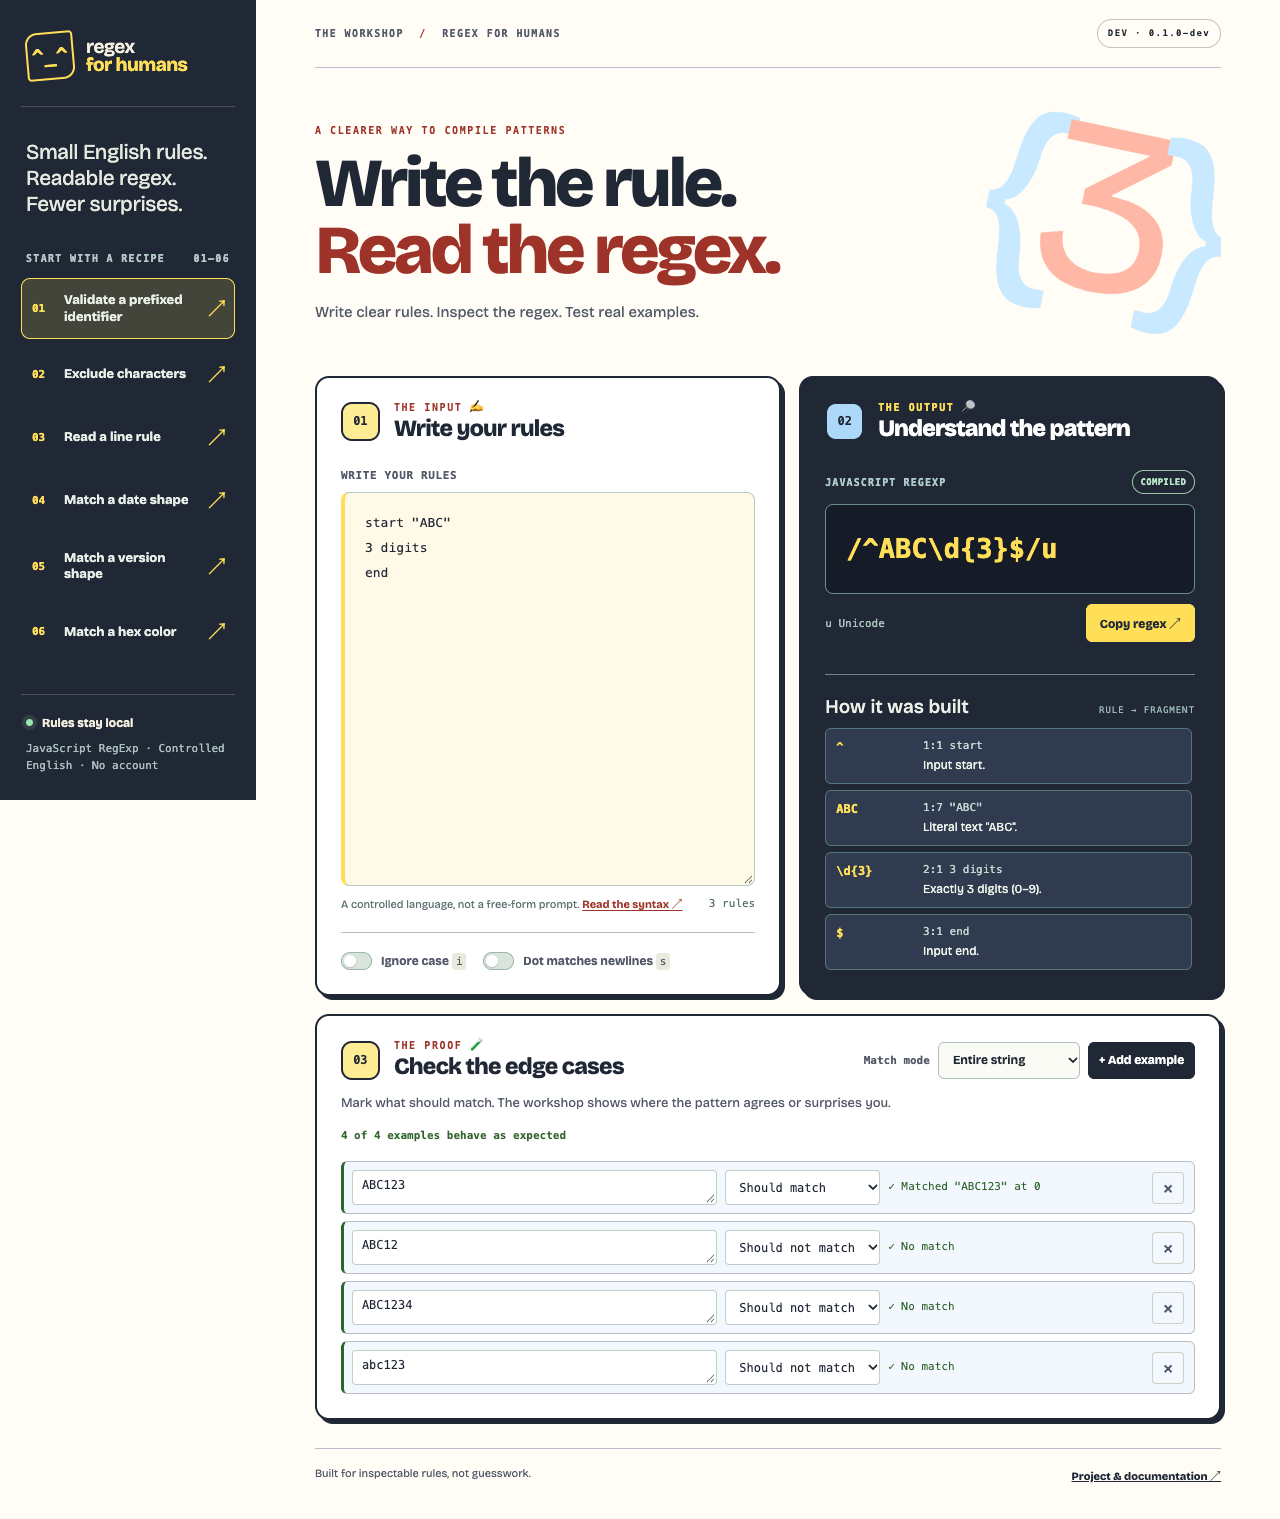
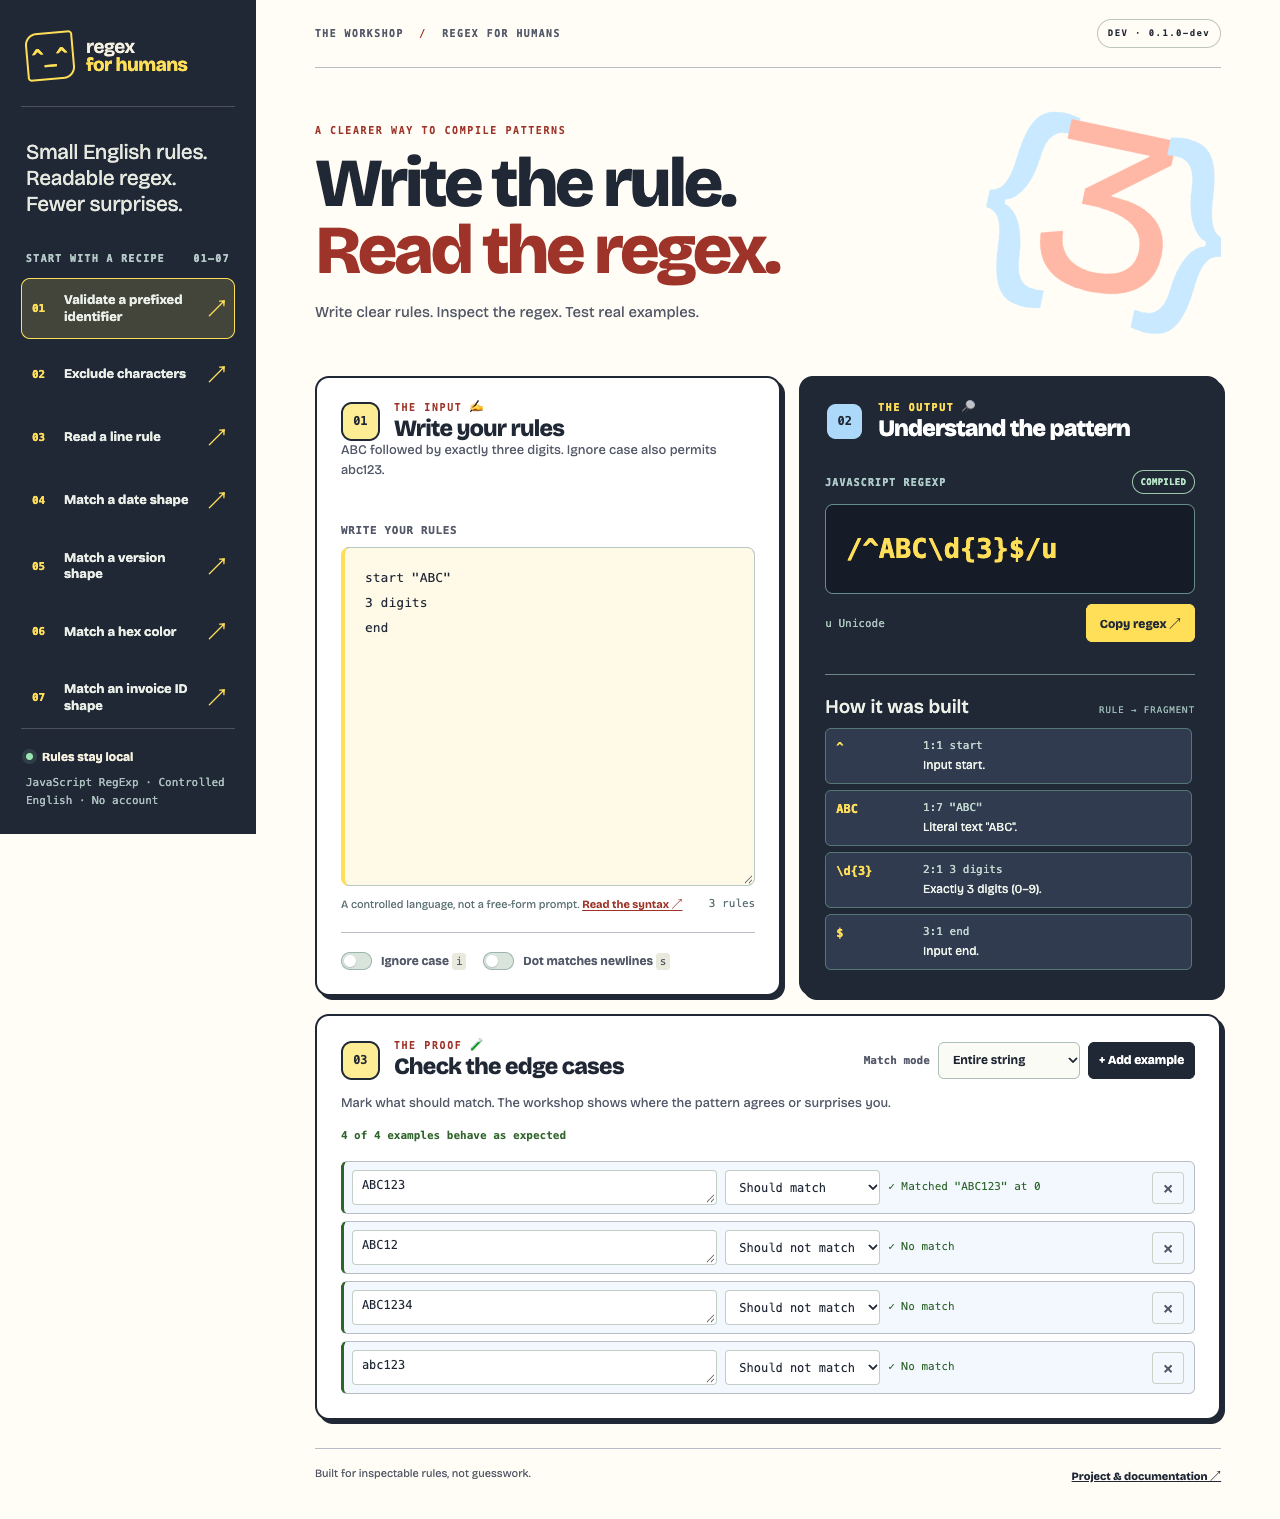
feat(recipes): teach bounded invoice ID shapes

Changed region(s): [[0.0, 0.4332, 0.2188, 0.5569], [0.25, 0.2785, 0.3438, 0.4022], [0.4062, 0.2785, 0.4375, 0.3094]]

diff --git a/site/index.html b/site/index.html
@@ -10,7 +10,7 @@
   <link rel="icon" type="image/svg+xml" href="./favicon.svg">
   <link rel="stylesheet" href="./styles.css?v=playful-1">
   <link rel="preload" href="./assets/fonts/bricolage-grotesque-latin.woff2" as="font" type="font/woff2" crossorigin>
-  <script type="module" src="./app.js?v=playful-4"></script>
+  <script type="module" src="./app.js?v=playful-5"></script>
 </head>
 <body>
   <a class="skip-link" href="#main">Skip to content</a>
@@ -47,9 +47,10 @@ end</code></pre></div>
       <div class="steps"><article class="step peach"><span class="step-icon" aria-hidden="true">✍</span><p class="step-number">01 / WRITE</p><h3>Say what you need.</h3><p>One instruction per line. Start with <code>3 digits</code>, a literal like <code>"ABC"</code>, or a recipe.</p></article><article class="step blue"><span class="step-icon" aria-hidden="true">🔎</span><p class="step-number">02 / UNDERSTAND</p><h3>See every little bit.</h3><p>Follow each rule to its regex fragment and explanation. No mystery pattern to blindly trust.</p></article><article class="step green"><span class="step-icon" aria-hidden="true">🧪</span><p class="step-number">03 / TEST</p><h3>Give it a reality check.</h3><p>Try strings that should match and strings that shouldn't. Change a rule. See what happens.</p></article></div>
     </section>
     <section class="recipes-section section" id="recipes" aria-labelledby="recipes-title">
-      <div class="section-heading split"><div><p class="eyebrow">PICK A STARTING POINT</p><h2 id="recipes-title">Small recipes.<br>Useful little superpowers.</h2></div><p>Six editable recipes in the workshop.<br>Bring your own examples, too.</p></div>
+      <div class="section-heading split"><div><p class="eyebrow">PICK A STARTING POINT</p><h2 id="recipes-title">Small recipes.<br>Useful little superpowers.</h2></div><p>Seven editable recipes in the workshop.<br>Bring your own examples, too.</p></div>
       <div class="recipe-grid">
         <a class="recipe-card" href="./workshop/?example=prefixed-identifier"><span aria-hidden="true">🏷</span><h3>Give IDs a shape</h3><code>ABC123</code><p>A prefix + exactly three digits.</p><span class="recipe-arrow" aria-hidden="true">↗</span></a>
+        <a class="recipe-card" href="./workshop/?example=invoice-number"><span aria-hidden="true">🧾</span><h3>Shape an invoice ID</h3><code>INV-1234</code><p>INV- + 2–6 digits. Verify records separately.</p><span class="recipe-arrow" aria-hidden="true">↗</span></a>
         <a class="recipe-card" href="./workshop/?example=hex-color"><span aria-hidden="true">🎨</span><h3>Find your color</h3><code>#12aBcF</code><p>Six hexadecimal digits after #.</p><span class="recipe-arrow" aria-hidden="true">↗</span></a>
         <a class="recipe-card" href="./workshop/?example=date-shape"><span aria-hidden="true">📅</span><h3>Check a date shape</h3><code>2026-09-30</code><p>YYYY-MM-DD. Calendar checks are separate.</p><span class="recipe-arrow" aria-hidden="true">↗</span></a>
         <a class="recipe-card" href="./workshop/?example=version-shape"><span aria-hidden="true">📦</span><h3>Spot a version shape</h3><code>1.2.3</code><p>Three numeric parts. Not full SemVer.</p><span class="recipe-arrow" aria-hidden="true">↗</span></a>
@@ -59,11 +60,11 @@ end</code></pre></div>
     </section>
     <section class="workshop-section section" aria-labelledby="workshop-title">
       <div class="workshop-copy"><p class="eyebrow">YOUR NEW REGEX SANDBOX</p><h2 id="workshop-title">Poke it.<br>Break it.<br><span class="workshop-underline">Understand it.</span></h2><p>Live output, explanations, helpful error positions, and examples you can edit. All in your browser.</p><a class="button primary" href="./workshop/">Take it for a spin <span aria-hidden="true">↗</span></a><p class="local-note"><span aria-hidden="true">🔒</span> Rules and examples stay in your browser.</p></div>
-      <a class="workshop-preview" href="./workshop/" aria-label="Open the interactive workshop"><div class="preview-bar" aria-hidden="true"><span>● ● ●</span><span>THE WORKSHOP / A REAL SCREENSHOT</span></div><img src="./assets/workshop-preview.png?v=2ac4704f7841" alt="Regex For Humans workshop with editable rules, a generated regex, explanations, and passing examples." loading="lazy" width="1280" height="1519"></a>
+      <a class="workshop-preview" href="./workshop/" aria-label="Open the interactive workshop"><div class="preview-bar" aria-hidden="true"><span>● ● ●</span><span>THE WORKSHOP / A REAL SCREENSHOT</span></div><img src="./assets/workshop-preview.png?v=86a0caaaef46" alt="Regex For Humans workshop with editable rules, a generated regex, explanations, and passing examples." loading="lazy" width="1280" height="1519"></a>
     </section>
     <section class="language-section section" id="language" aria-labelledby="language-title">
       <div class="language-intro"><p class="eyebrow">THE POCKET CHEAT SHEET</p><h2 id="language-title">A few words.<br>A lot less squinting. <span aria-hidden="true">👀</span></h2><p>A small, fixed English vocabulary. Every supported instruction has an exact meaning.</p><a class="text-link" href="./workshop/web/language.html">Read the full syntax guide ↗</a><p class="scope-note">JavaScript RegExp only. Free-form English, raw regex, groups, alternation, and lookaround aren't part of this language.</p></div>
-      <div class="syntax-list"><div><code>start / end</code><span aria-hidden="true">→</span><code>^ / $</code></div><div><code>3 digits</code><span aria-hidden="true">→</span><code>\d{3}</code></div><div><code>6 hex digits</code><span aria-hidden="true">→</span><code>[0-9A-Fa-f]{6}</code></div><div><code>"hello"</code><span aria-hidden="true">→</span><code>hello</code></div><div><code>one of: a, b</code><span aria-hidden="true">→</span><code>[ab]</code></div><div><code>text without: a, b</code><span aria-hidden="true">→</span><code>[^ab]*</code></div><div><code>any text</code><span aria-hidden="true">→</span><code>.*</code></div></div>
+      <div class="syntax-list"><div><code>start / end</code><span aria-hidden="true">→</span><code>^ / $</code></div><div><code>3 digits</code><span aria-hidden="true">→</span><code>\d{3}</code></div><div><code>between 2 and 6 digits</code><span aria-hidden="true">→</span><code>\d{2,6}</code></div><div><code>6 hex digits</code><span aria-hidden="true">→</span><code>[0-9A-Fa-f]{6}</code></div><div><code>"hello"</code><span aria-hidden="true">→</span><code>hello</code></div><div><code>one of: a, b</code><span aria-hidden="true">→</span><code>[ab]</code></div><div><code>text without: a, b</code><span aria-hidden="true">→</span><code>[^ab]*</code></div><div><code>any text</code><span aria-hidden="true">→</span><code>.*</code></div></div>
     </section>
     <section class="closing" aria-labelledby="closing-title"><span class="closing-face" aria-hidden="true">^_^</span><div><h2 id="closing-title">Make your next regex<br>a little more human.</h2><a class="button primary" href="./workshop/">Let's make a match <span aria-hidden="true">✨</span></a></div></section>
   </main>

diff --git a/test/site/landing.spec.js b/test/site/landing.spec.js
@@ -100,6 +100,24 @@ test("the initial hex demo still works when extra recipes cannot load", async ({
   await expect(page.locator("#demo-open")).toHaveAttribute("href", "./workshop/?example=hex-color");
 });
 
+test("recipe cards cover every shared recipe and open the bounded invoice shape", async ({
+  page,
+}) => {
+  await page.goto("/");
+  const ids = await page
+    .locator(".recipe-card")
+    .evaluateAll((cards) => cards.map((card) => new URL(card.href).searchParams.get("example")));
+  expect(ids.sort()).toEqual(recipes.map((recipe) => recipe.id).sort());
+  await expect(page.locator(".syntax-list")).toContainText("between 2 and 6 digits");
+  const recipe = recipes.find((item) => item.id === "invoice-number");
+  await page.locator('.recipe-card[href*="invoice-number"]').click();
+  await expect(page).toHaveURL(/\/workshop\/\?example=invoice-number$/u);
+  await expect(page.locator("#rules-input")).toHaveValue(recipe.rules);
+  await expect(page.locator("#regex-output")).toHaveText(`/${recipe.source}/${recipe.flags}`);
+  await expect(page.locator("#recipe-note")).toHaveText(recipe.note);
+  await expect(page.locator("#test-summary")).toHaveText("10 of 10 examples behave as expected");
+});
+
 test("copying a second snippet keeps its feedback after the first timer expires", async ({
   page,
 }) => {

diff --git a/test/browser/workshop.spec.js b/test/browser/workshop.spec.js
@@ -54,6 +54,11 @@ for (const scenario of scenarios) {
         "Exactly 6 hexadecimal digits (0–9, A–F, a–f).",
       );
     }
+    if (scenario.id === "invoice-number") {
+      await expect(page.locator("#trace-list")).toContainText(
+        "Between 2 and 6 digits (0–9), inclusive.",
+      );
+    }
     await expect(page.locator("#regex-output")).toHaveText(`/${scenario.source}/${scenario.flags}`);
     await expect(page.locator("#test-summary")).toHaveText(
       `${scenario.positive.length + scenario.negative.length} of ${scenario.positive.length + scenario.negative.length} examples behave as expected`,

diff --git a/README.md b/README.md
@@ -55,29 +55,30 @@ A small, **fixed vocabulary**, with an exact meaning for every instruction. The 
 
 Your rules and examples stay in the browser. No account, AI interpretation, or application backend.
 
-[![Real desktop workshop showing editable rules, generated regex, explanations, and passing example checks](https://raw.githubusercontent.com/OthmaneBlial/Regex-For-Humans/main/media/screenshots/workshop-desktop-dev.png?v=ea8ad4302ece)](https://othmaneblial.github.io/Regex-For-Humans/workshop/)
+[![Real desktop workshop showing editable rules, generated regex, explanations, and passing example checks](https://raw.githubusercontent.com/OthmaneBlial/Regex-For-Humans/main/media/screenshots/workshop-desktop-dev.png?v=0aa7a9f27078)](https://othmaneblial.github.io/Regex-For-Humans/workshop/)
 
 <details>
 <summary>📱 See the mobile workshop</summary>
 
-![Mobile view of the Regex For Humans workshop](https://raw.githubusercontent.com/OthmaneBlial/Regex-For-Humans/main/media/screenshots/workshop-mobile-dev.png?v=88d027526010)
+![Mobile view of the Regex For Humans workshop](https://raw.githubusercontent.com/OthmaneBlial/Regex-For-Humans/main/media/screenshots/workshop-mobile-dev.png?v=68866e560029)
 
 </details>
 
 [Real screenshot details and checksums](https://github.com/OthmaneBlial/Regex-For-Humans/blob/main/media/screenshots/README.md).
 
-## 🍱 Six recipes to start with
+## 🍱 Seven recipes to start with
 
 | Try this | Example | What it checks |
 | --- | --- | --- |
 | [🏷 Prefixed ID](https://othmaneblial.github.io/Regex-For-Humans/workshop/?example=prefixed-identifier) | `ABC123` | `ABC` + exactly three digits |
+| [🧾 Invoice ID shape](https://othmaneblial.github.io/Regex-For-Humans/workshop/?example=invoice-number) | `INV-1234` | `INV-` + two to six ASCII digits |
 | [🎨 Hex color](https://othmaneblial.github.io/Regex-For-Humans/workshop/?example=hex-color) | `#12aBcF` | Six hexadecimal digits after `#`, either letter case |
 | [📅 Date shape](https://othmaneblial.github.io/Regex-For-Humans/workshop/?example=date-shape) | `2026-09-30` | The `YYYY-MM-DD` shape |
 | [📦 Version shape](https://othmaneblial.github.io/Regex-For-Humans/workshop/?example=version-shape) | `1.2.3` | Three numeric components |
 | [🚧 Excluded characters](https://othmaneblial.github.io/Regex-For-Humans/workshop/?example=excluded-characters) | `xyz` | Text without a chosen set of characters |
 | [📝 Line rule](https://othmaneblial.github.io/Regex-For-Humans/workshop/?example=line-rule) | `item 123` | A line ending in at least three digits |
 
-**Shapes have limits:** date shape accepts impossible dates such as `2026-02-31`; validate calendar values separately. Version shape allows leading zeros and rejects prerelease suffixes; it isn't full SemVer. Hex color accepts `#RRGGBB`, not shorthand, alpha, or every CSS color form.
+**Shapes have limits:** invoice IDs allow leading zeros; verify invoice records separately. Date shape accepts impossible dates such as `2026-02-31`; validate calendar values separately. Version shape allows leading zeros and rejects prerelease suffixes; it isn't full SemVer. Hex color accepts `#RRGGBB`, not shorthand, alpha, or every CSS color form.
 
 ## 🧩 Your pocket cheat sheet
 

diff --git a/media/screenshots/README.md b/media/screenshots/README.md
@@ -1,15 +1,15 @@
 # Screenshot evidence
 
-These are full-page Chrome captures of the local static workshop from this source tree on 30 September 2026, after `npm run verify` passed. Build fingerprint: `e4bc180e0aec`; visible version: `DEV · 0.1.0-dev`. The build was served from `site/` at `http://127.0.0.1:4187/workshop/`. No UI elements or results were composited or edited. The Bricolage Grotesque font is hosted locally and distributed with its SIL Open Font License in `web/assets/OFL.txt` and `site/assets/fonts/OFL.txt`.
+These are full-page Chrome captures of the local static workshop from this source tree on 30 September 2026, after `npm run verify` passed. Build fingerprint: `ddf21013587c`; visible version: `DEV · 0.1.0-dev`. The build was served from `site/` at `http://127.0.0.1:4191/workshop/`. No UI elements or results were composited or edited. The Bricolage Grotesque font is hosted locally and distributed with its SIL Open Font License in `web/assets/OFL.txt` and `site/assets/fonts/OFL.txt`.
 
-The README desktop and mobile captures show the `hex-color` recipe: `start "#"`, `6 hex digits`, `end`. The generated regex is `/^#[0-9A-Fa-f]{6}$/u`; all eight example checks pass. The desktop sidebar lists six recipes; the mobile recipe bar scrolls.
+The README desktop and mobile captures show the `hex-color` recipe: `start "#"`, `6 hex digits`, `end`. The generated regex is `/^#[0-9A-Fa-f]{6}$/u`; all eight example checks pass. The desktop sidebar lists seven recipes; the mobile recipe bar scrolls. Both captures show the selected recipe's limits beside its rules.
 
 The homepage preview is a separate capture of `prefixed-identifier`, with `/^ABC\d{3}$/u` and all four example checks passing.
 
 | File | Viewport | Pixels | Size | SHA-256 |
 | --- | --- | --- | --- | --- |
[6 lines of base64/hex data omitted]
 
 These are local development captures, not stable-release or human usability evidence. Re-capture after the remaining UX reviews before closing roadmap task 4.2.

diff --git a/docs/PRODUCT.md b/docs/PRODUCT.md
@@ -20,7 +20,9 @@ These fixtures define the product walkthrough. Their expected regex sources and 
 
 6. **Match a hex color.** Rules: `start "#"` / `6 hex digits` / `end`. Expected source `^#[0-9A-Fa-f]{6}$`, flags `u`. Positive: `#12aBcF`, `#000000`, `#FFFFFF`. Negative: `#123`, `#12345678`, `#G00000`, `123456`, a color followed by a newline. This teaches an exact count of ASCII hexadecimal digits in either letter case. It accepts only the six-digit `#RRGGBB` notation; shorthand, alpha components, named colors and other CSS color forms are outside this recipe.
 
-The recipes use compact syntax for prefixes, exclusions, line matching, a fixed date shape, variable-length version components and an exact hexadecimal character count.
+7. **Match an invoice ID shape.** Rules: `start "INV-"` / `between 2 and 6 digits` / `end`. Expected source `^INV-\d{2,6}$`, flags `u`. Positive: `INV-12`, `INV-1234`, `INV-123456`, `INV-0012`. Negative: `INV-1`, `INV-1234567`, `inv-1234`, `INV-١٢`, `INV-12A`, an ID followed by a newline. This teaches inclusive bounded repetition with both accepted limits. Digits are ASCII, the prefix is case-sensitive and leading zeros are allowed. It checks a text shape; verify invoice records separately.
+
+The recipes use compact syntax for prefixes, exclusions, line matching, a fixed date shape, variable-length version components, an exact hexadecimal character count and an inclusive digit range.
 
 Each fixture includes a short note about its meaning and limits. The workshop shows that note beside the selected rules, includes it in the editor's accessible description, and hides it when manual rules differ from the recipe. The homepage demo uses the same note.
 

diff --git a/CHANGELOG.md b/CHANGELOG.md
@@ -2,6 +2,8 @@
 
 ## Unreleased
 
+- Add an invoice ID shape recipe using `between 2 and 6 digits`, with accepted bounds, leading zeros and rejected case, Unicode digits and trailing text; link all seven recipes from the README and homepage.
+
 - Add inclusive bounded counts with `between n and m <item>`, positioned diagnostics and explanations. New bounded instructions expose `repetition: { kind: "range", min, max }`; existing instructions retain their metadata and behavior.
 
 - Show shared recipe notes in the workshop and homepage, including date, version and color validation limits; clarify that the line recipe accepts four or more trailing digits.
